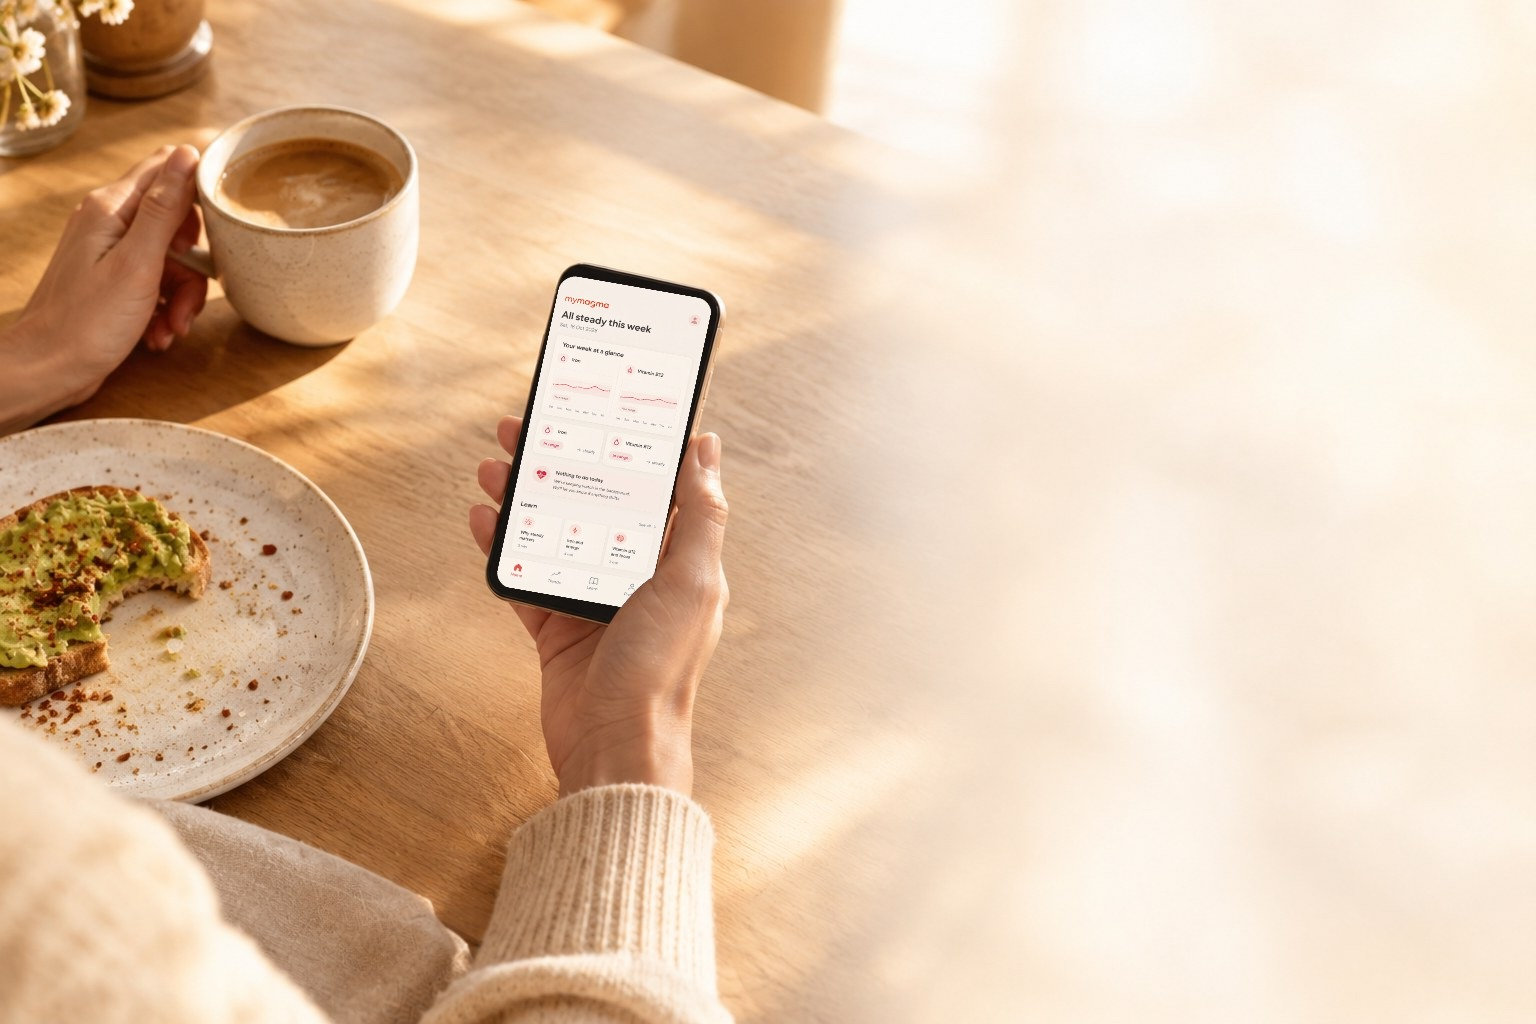
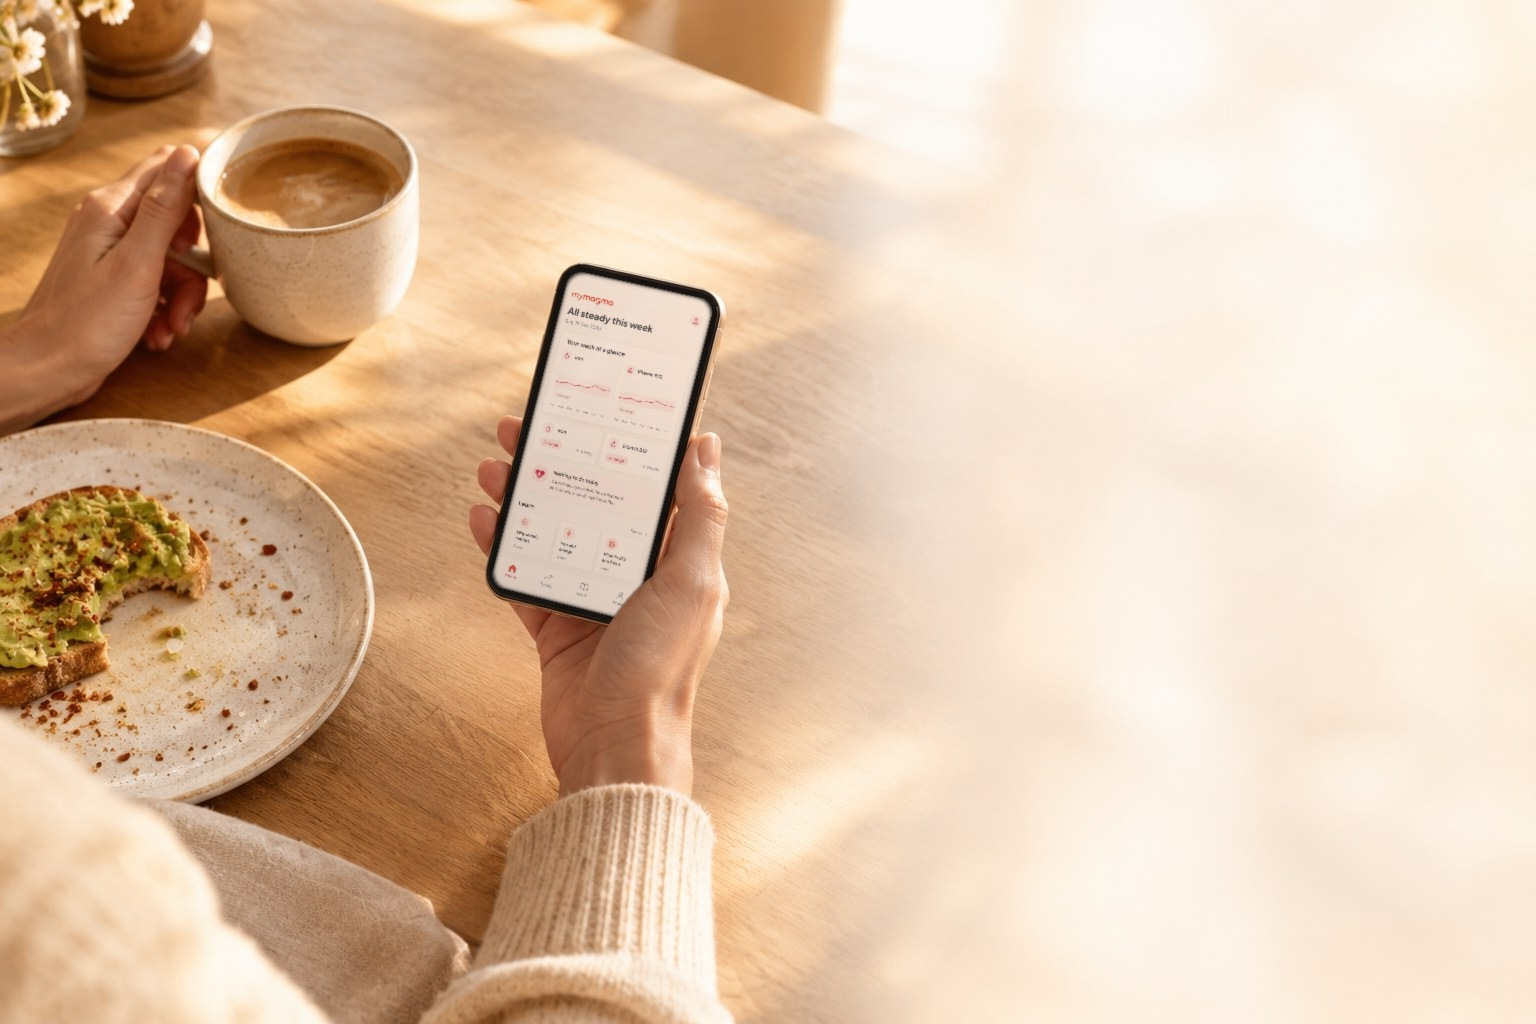
Breakfast phone: screen refitted to the phone's tilt and blended into the light; phone layout text placement for the new way and the waitlist
Claude-Session: https://claude.ai/code/session_01LunAQafJPPKK7NvtiupAmc

Changed region(s): [[0.3125, 0.25, 0.4688, 0.625]]

diff --git a/index.html b/index.html
@@ -617,10 +617,10 @@
     .waitlist { height: auto; min-height: 100svh; }
     .waitlist-media { position: absolute; inset: 0; height: auto; }
     .waitlist-stage { position: static; width: 100%; height: 100%; transform: none; }
-    .waitlist-stage img { object-fit: cover; object-position: 66% 50%; }
-    .waitlist-copy { position: relative; left: auto; top: auto; width: auto; padding: 108px var(--gutter) 64px; }
-    .waitlist .heading-lg { font-size: 28px; }
-    .waitlist .body-lg { font-size: 15px; }
+    .waitlist-stage img { object-fit: cover; object-position: 60% 50%; }
+    .waitlist-copy { position: relative; left: auto; top: auto; width: 64%; margin-left: auto; padding: 108px var(--gutter) 64px 0; }
+    .waitlist .heading-lg { font-size: 24px; }
+    .waitlist .body-lg { font-size: 14px; }
     .waitlist .email-form { flex-direction: column; }
   }
 
@@ -647,13 +647,17 @@
     .frame-text .heading-lg { font-size: 26px; margin: 10px 0 12px; }
     .frame-text > p:not(.label) { font-size: 14px; line-height: 1.5; max-width: 30em; }
     .frame--quiz .frame-media img { object-position: 62% 50%; }
-    /* The new way: the phone shows at the top, the text sits at the bottom on a light wash */
-    .frame--mirror { margin-top: 0; pointer-events: auto; height: auto; display: flex; flex-direction: column; justify-content: flex-end; padding-bottom: 36px; }
+    /* The new way: text at the top right, on the bright side of the photo; the phone on the left */
+    .frame--mirror { margin-top: 0; pointer-events: auto; height: auto; padding-top: 84px; padding-bottom: 36px; }
+    .frame--mirror .frame-text { margin-left: auto; width: 60%; padding: 0 var(--gutter) 0 0; }
+    .frame--mirror .frame-text .heading-lg { font-size: 22px; }
+    .frame--mirror .frame-text > p:not(.label) { font-size: 13px; }
     .frame--mirror .frame-media::before {
-      background: linear-gradient(rgba(255,255,255,0) 40%, rgba(255,255,255,0.75) 66%, rgba(255,255,255,0.92) 100%);
+      background: radial-gradient(120% 60% at 100% 0%, rgba(255,255,255,0.85) 0%, rgba(255,255,255,0.6) 45%, rgba(255,255,255,0) 75%);
     }
     .frame--mirror .frame-media { -webkit-mask-image: none; mask-image: none; }
-    .frame--mirror .frame-media img { object-position: 40% 50%; }
+    /* the photo starts a little lower, so the phone sits below the text */
+    .frame--mirror .frame-media img { position: absolute; top: 15%; height: 100%; object-position: 46% 0; -webkit-mask-image: linear-gradient(transparent, #000 14%); mask-image: linear-gradient(transparent, #000 14%); }
     .quiz { margin-top: 20px; }
     .quiz-q { font-size: 15px; }
     .pill { padding: 9px 16px; font-size: 14px; }
